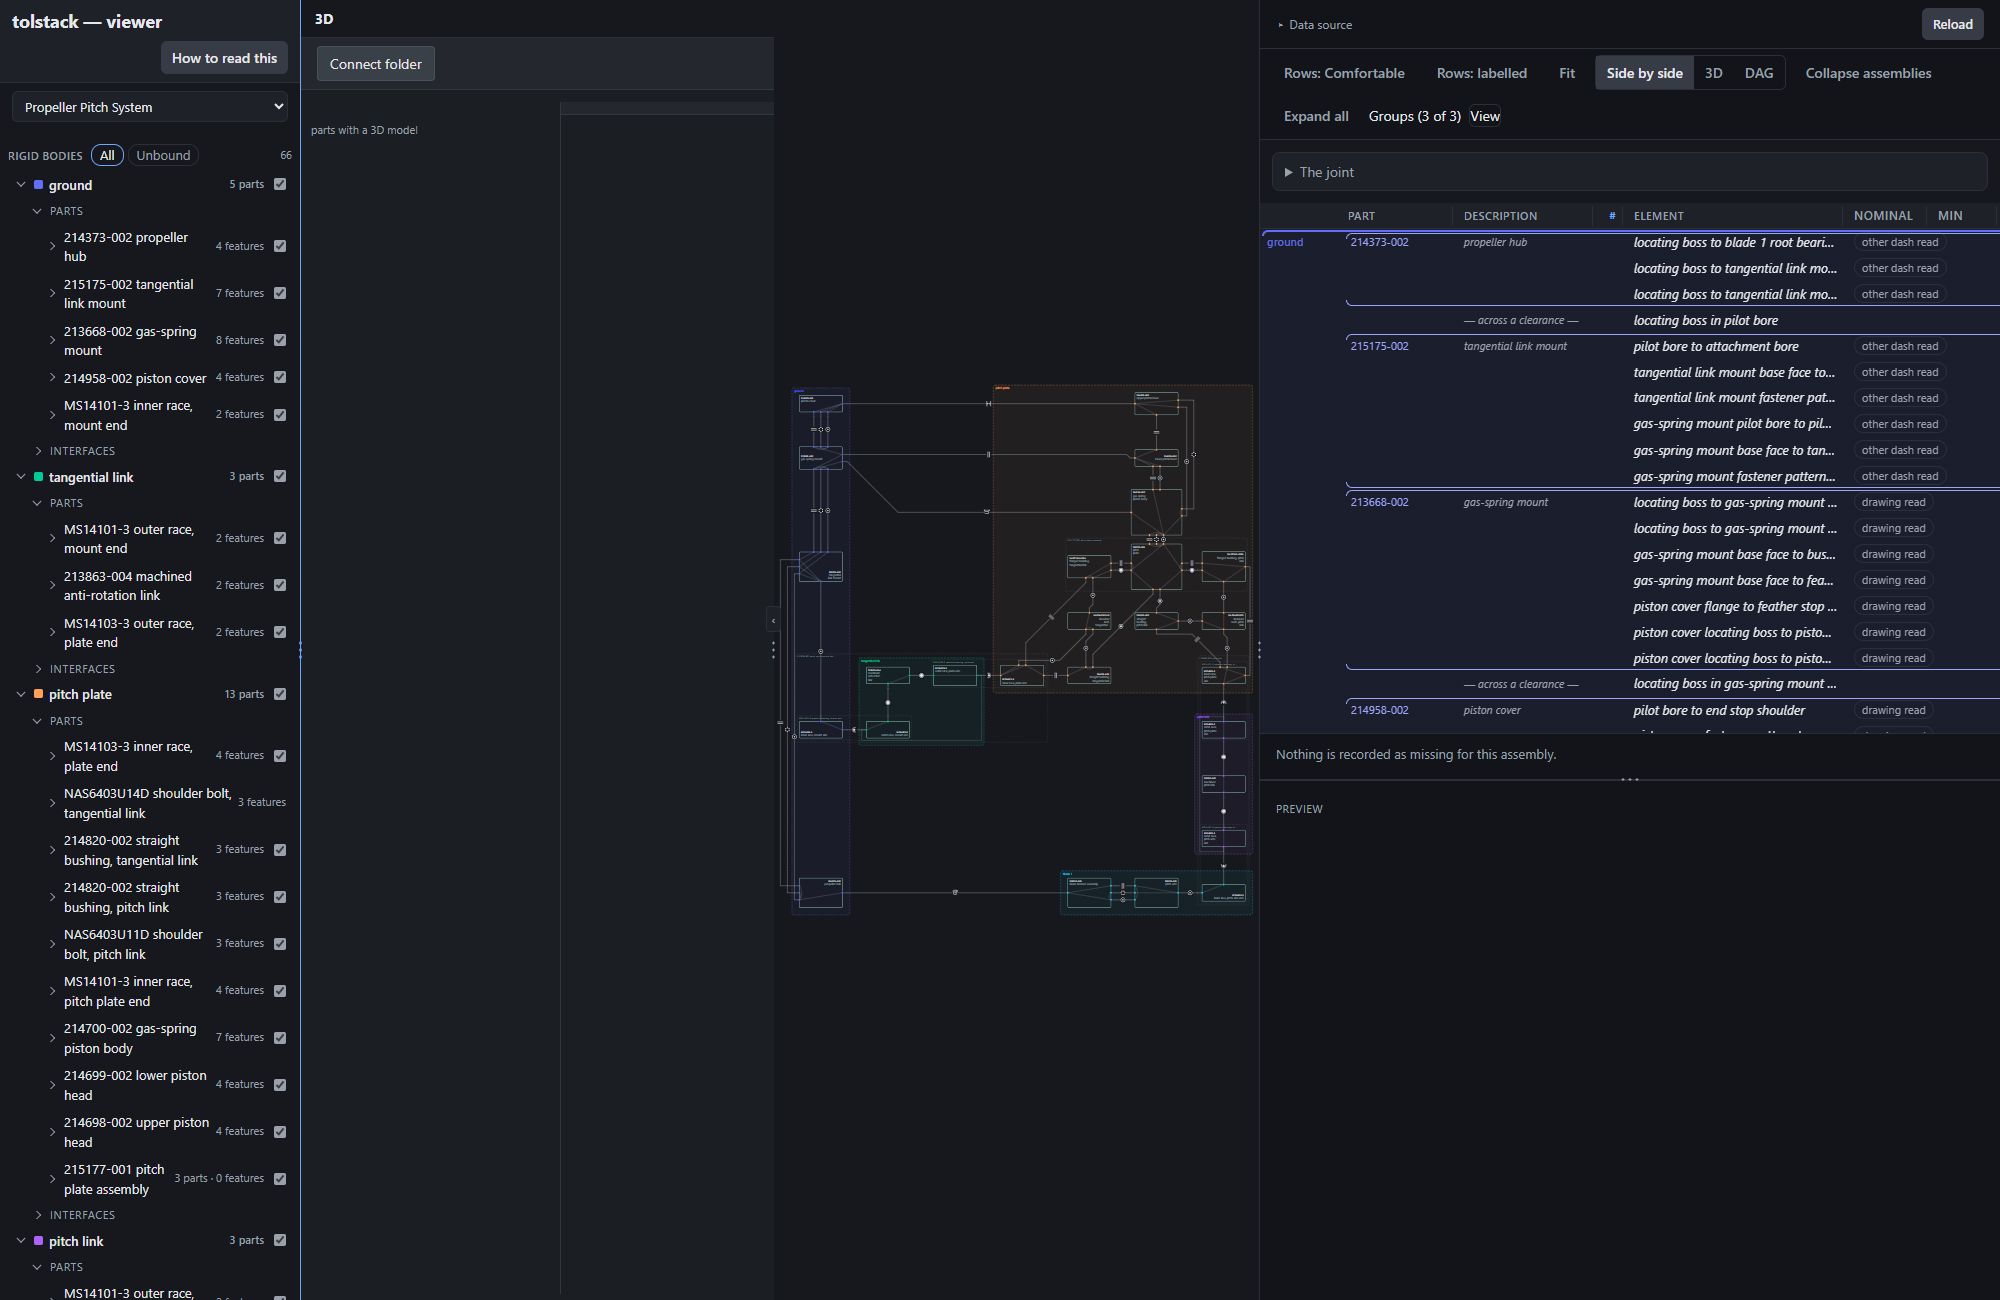
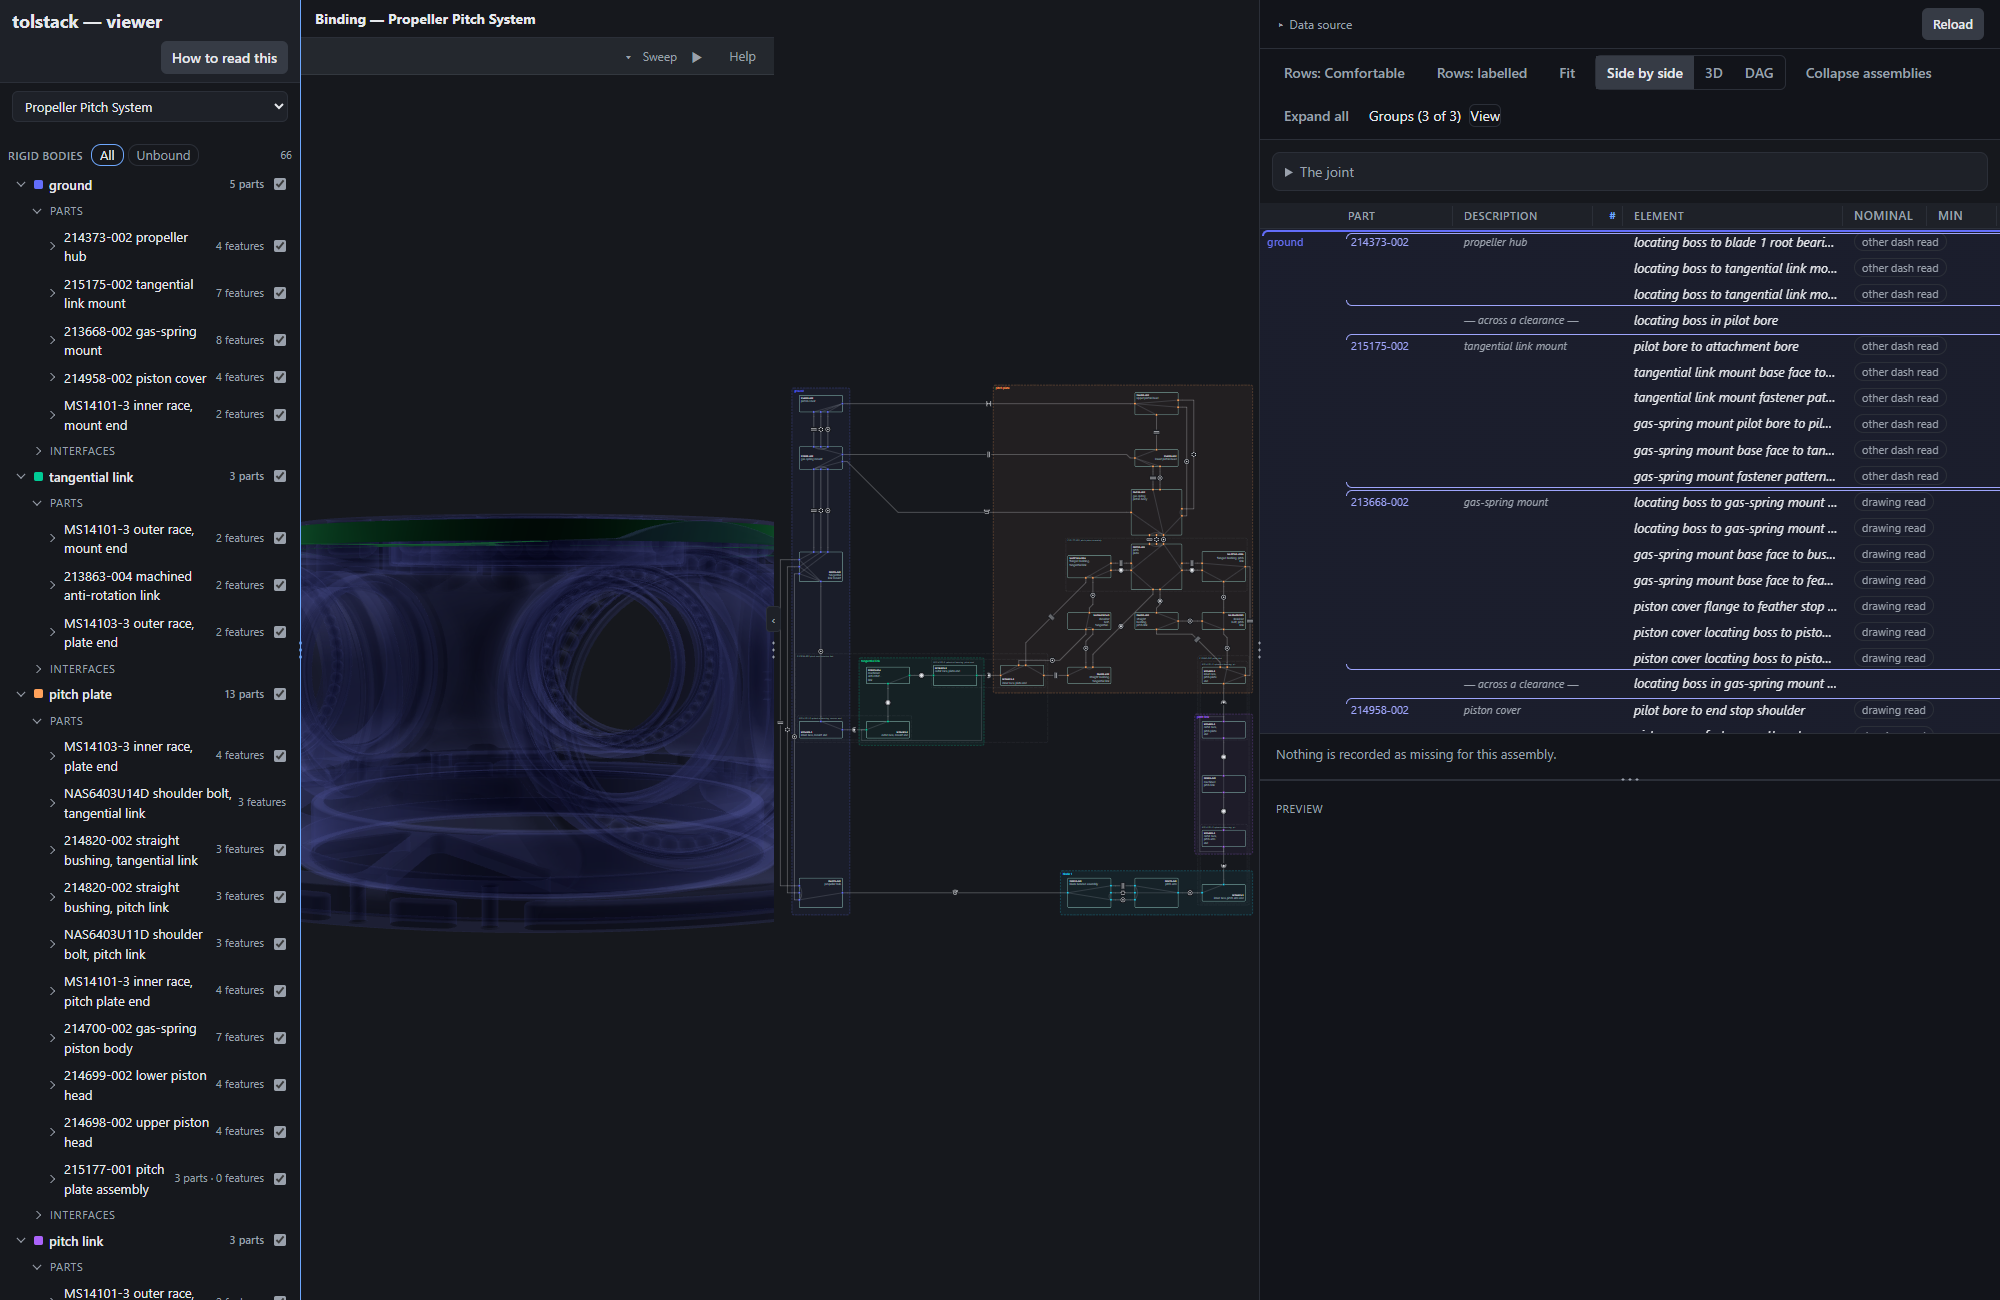
annotate: a dimension within one part is never a mate -- the lug bores stop offering the plate's spindle bore
v2's flanged-bushing bores are placed by a radius dimension from the plate's
own spindle bore, which is bound (through v1) on the container's mesh, so the
own-mesh filter missed it and the mate ranking offered faces 487/521 with a
Take on both lug features. A reference across an edge whose two ends name one
part is skipped; cross-part pattern edges stay mates.

Changed region(s): [[0.124, 0.3692, 0.403, 0.7077], [0.155, 0.0, 0.279, 0.0615], [0.155, 0.0923, 0.186, 0.1231]]

diff --git a/apps/annotate/sweep.js b/apps/annotate/sweep.js
@@ -1216,6 +1216,19 @@
     return drawn.map(function (o) { return o.placement; });
   };
 
+  // Whether an edge runs within ONE part: both its ends name the same first
+  // part (AA.pickEndPartIds) -- a plate's lug bore positioned from its own
+  // spindle bore. The bound face at the other end of such a dimension is the
+  // same part's other feature, never a face this one mates with; v2's two
+  // flanged-bushing bores were offered the plate's spindle bore that way
+  // (2026-11-22). A cross-part dimension (a hub's fastener pattern to the
+  // mount's) stays a mate.
+  AA.edgeWithinOnePart = function (topology, edgeId) {
+    var from = AA.pickEndPartIds(topology, edgeId, AA.DIRECTIONS[0])[0];
+    var to = AA.pickEndPartIds(topology, edgeId, AA.DIRECTIONS[1])[0];
+    return !!from && from === to;
+  };
+
   // The part a face reference ({edgeId, direction, sha256}, AA.gather
   // FaceReferences) is bound on: the first of its end's parts
   // (AA.pickEndPartIds) on that mesh, or null.

diff --git a/apps/annotate/app.js b/apps/annotate/app.js
@@ -1318,6 +1318,8 @@ function mateReferences(topology, ends, ownSha, view) {
     for (const r of AA.gatherFaceReferences(topology, end.edgeId, end.direction, view)) {
       const key = r.sha256 + "|" + r.faceId;
       if (r.sha256 === ownSha || seen.has(key)) continue;
+      // A dimension within one part names that part's other feature, not a mate.
+      if (r.source === "other_end" && AA.edgeWithinOnePart(topology, r.edgeId)) continue;
       seen.add(key);
       out.push(r);
     }
